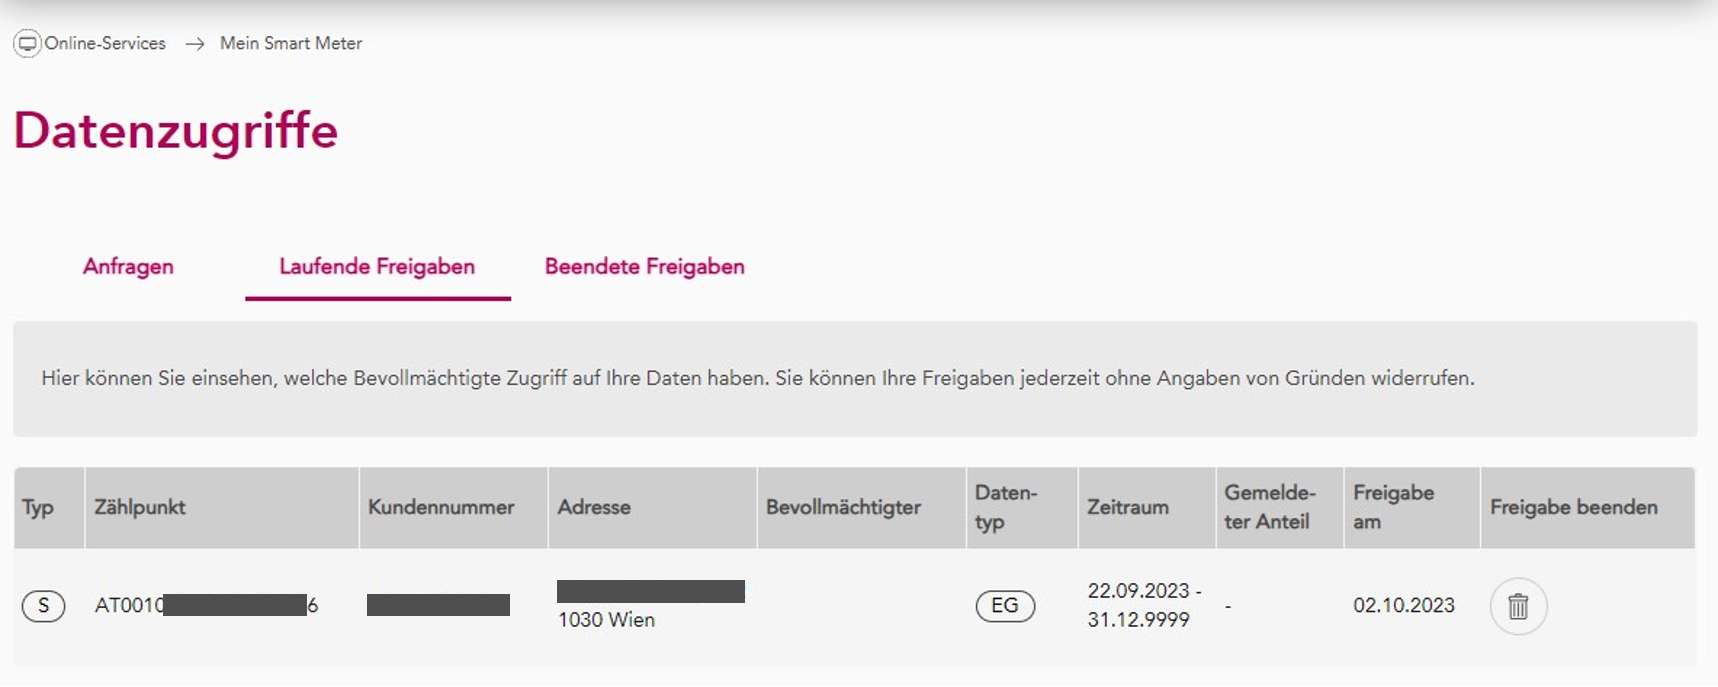
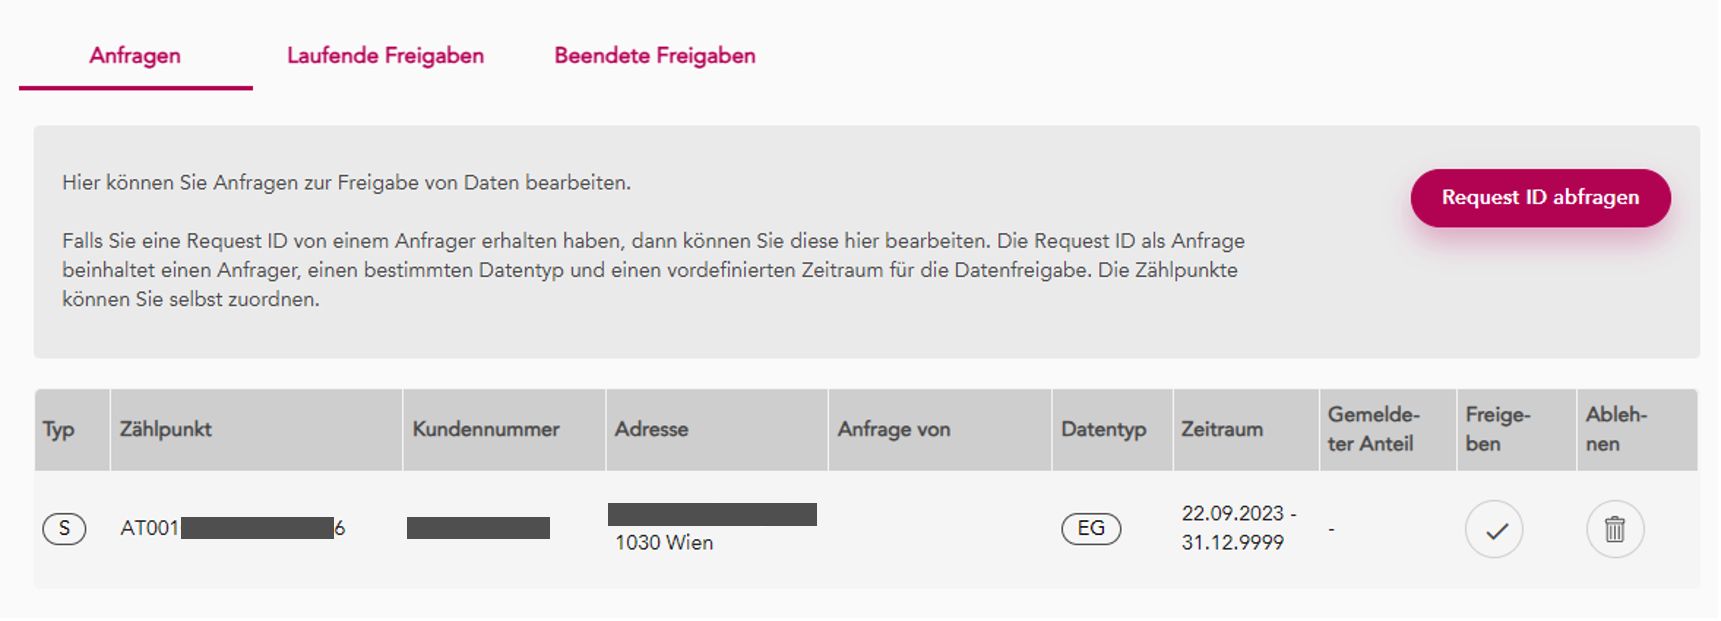
GITBOOK-80: No subject

diff --git a/energiedatenfreigaben/netzbetreiber/wiener-netze.md b/energiedatenfreigaben/netzbetreiber/wiener-netze.md
@@ -2,40 +2,40 @@
 
 Marktpartner-Details: [https://www.ebutilities.at/marktpartner/1](https://www.ebutilities.at/marktpartner/1)
 
-Die Wiener Netze betreibt ein Smart Meter Webportal mit Login für ihre Kunden, bei dem man sich zuerst registrieren muss. Die Registrierung benötigt die E-Mail Adresse, Namen und Kennwort.  &#x20;
+Die Wiener Netze betreibt ein Smart Meter Webportal mit Login für ihre Kunden, bei dem man sich zuerst registrieren muss. Die Registrierung benötigt die E-Mail Adresse, Namen und Kennwort.
 
-### 1. Schritt: Einloggen&#x20;
+### 1. Schritt: Einloggen
 
-Du kannst das Smart Meter Webportal über den Login aufrufen.&#x20;
+Du kannst das Smart Meter Webportal über den Login aufrufen.
 
 <figure><img src="../../.gitbook/assets/image (25).png" alt=""><figcaption></figcaption></figure>
 
 ### 2. Schritt: Energiedatenfreigabe
 
-Nachdem du dich eingeloggt hast, findest du unter "Datenzugriffe" die Anfragen. Sobald wir die Anfrag geschickt haben informieren wir dich per E-Mail.&#x20;
+Nachdem du dich eingeloggt hast, findest du unter "Datenzugriffe" die Anfragen. Sobald wir die Anfrag geschickt haben informieren wir dich per E-Mail.
 
-<figure><img src="../../.gitbook/assets/image.png" alt=""><figcaption></figcaption></figure>
+<figure><img src="../../.gitbook/assets/image (3).png" alt=""><figcaption></figcaption></figure>
 
-Die Anfrage ist 30 Tage gültig und wird dann automatisch gelöscht. Sollten wir von dir innerhalb der Zeit keine Freigabe bekommen muss diese neu ausgelöst werden.&#x20;
+Die Anfrage ist 30 Tage gültig und wird dann automatisch gelöscht. Sollten wir von dir innerhalb der Zeit keine Freigabe bekommen muss diese neu ausgelöst werden.
 
 <figure><img src="../../.gitbook/assets/image (26).png" alt="" width="375"><figcaption></figcaption></figure>
 
 ### 3. Schritt: Freigabe erteilen
 
-Du musst eine Zustimmungserklärung für die Weitergabe der Smart Meter Daten an uns geben, damit wir die Verrechnung durchführen können.&#x20;
+Du musst eine Zustimmungserklärung für die Weitergabe der Smart Meter Daten an uns geben, damit wir die Verrechnung durchführen können.
 
-<figure><img src="../../.gitbook/assets/image (1).png" alt=""><figcaption></figcaption></figure>
+<figure><img src="../../.gitbook/assets/image (1) (1).png" alt=""><figcaption></figcaption></figure>
 
-Sobald du nach unten gescrollt hast, wird der "Einwilligen" Button aktiv.&#x20;
+Sobald du nach unten gescrollt hast, wird der "Einwilligen" Button aktiv.
 
-<figure><img src="../../.gitbook/assets/image (2).png" alt=""><figcaption></figcaption></figure>
+<figure><img src="../../.gitbook/assets/image (2) (1).png" alt=""><figcaption></figcaption></figure>
 
 ### 4. Schritt: Kontolle der Freigabe
 
-Nachdem du die Einwilligung gegeben hast, siehst du die Freigabe unter "Laufende Freigaben".&#x20;
+Nachdem du die Einwilligung gegeben hast, siehst du die Freigabe unter "Laufende Freigaben".
 
-<figure><img src="../../.gitbook/assets/image (3).png" alt=""><figcaption></figcaption></figure>
+<figure><img src="../../.gitbook/assets/image (3) (1).png" alt=""><figcaption></figcaption></figure>
 
 ### 5. Schritt: Info an 7Energy
 
-Die 7Energy - BEG sollte nun im Hintergrund die Meldung bekommen, dass die Datenfreigabe erfolgt ist. Wenn du aber auf Nummer Sicher gehen willst, dann schreib uns bitte auch noch eine E-Mail an `office@7energy.at`  damit wir aktiv werden können, sollte etwas bei der Datenübertragung schief gegangen sein.&#x20;
+Die 7Energy - BEG sollte nun im Hintergrund die Meldung bekommen, dass die Datenfreigabe erfolgt ist. Wenn du aber auf Nummer Sicher gehen willst, dann schreib uns bitte auch noch eine E-Mail an `office@7energy.at` damit wir aktiv werden können, sollte etwas bei der Datenübertragung schief gegangen sein.

diff --git a/energiedatenfreigaben/netzbetreiber/vorarlberger-energienetze.md b/energiedatenfreigaben/netzbetreiber/vorarlberger-energienetze.md
@@ -1,3 +1,29 @@
 # Vorarlberger Energienetze
 
 Marktpartner-Details: [https://www.ebutilities.at/marktpartner/54](https://www.ebutilities.at/marktpartner/54)
+
+Die Vorarlberger Energienetze stellt ein Kundenportal zur Verfügung, bei welchem man sich zuerst registrieren muss. Nachdem man einen **PIN per Post** erhalten hat, kommt man damit in das eigentliche Portal. &#x20;
+
+Hier geht es direkt zur Registrierung: [https://identity.vorarlbergnetz.at/Identity/RegisterUser](https://identity.vorarlbergnetz.at/Identity/RegisterUser)
+
+### 1. Schritt: PIN Anfordern / Freischalten
+
+Der PIN muss angefordert werden, um das Kundenportal voll freischalten zu können.&#x20;
+
+<figure><img src="../../.gitbook/assets/image.png" alt=""><figcaption><p>Abb. 1: Anforderung PIN Code</p></figcaption></figure>
+
+<figure><img src="../../.gitbook/assets/image (1).png" alt=""><figcaption><p>Abb. 2: Eingabe des angeforderten PIN-Code im Kundenportal</p></figcaption></figure>
+
+### 2. Schritt: Datenfreigabe
+
+Die Anfragen werden im Bereich Vollmachten für ca. 6 Wochen hinterlegt und warten auf deine Freigabe. Sollte die Anfrage nicht mehr sichtbar sein, melde dich bitte bei uns, damit wir den Prozess nochmal starten können.&#x20;
+
+<figure><img src="../../.gitbook/assets/image (2).png" alt=""><figcaption><p>Abb. 3: Vollmachten zur Freigabe im Kundenportal</p></figcaption></figure>
+
+### 3. Schritt: Warten auf Abschlussmeldung
+
+Nach deiner Bestätigung werden von der Vorarlberg Netz noch einige Prüfungen durchgeführt und typischerweise bekommen wir nach 1-3 Tagen eine sog. "Abschlussmeldung".&#x20;
+
+Ab diesem Zeitpunkt bist du dann Teil der 7Energy - BEG. :tada:
+
+Solltest du nicht gleich von uns hören, dann frag bitte einfach nach, ob es funktioniert hat. &#x20;
